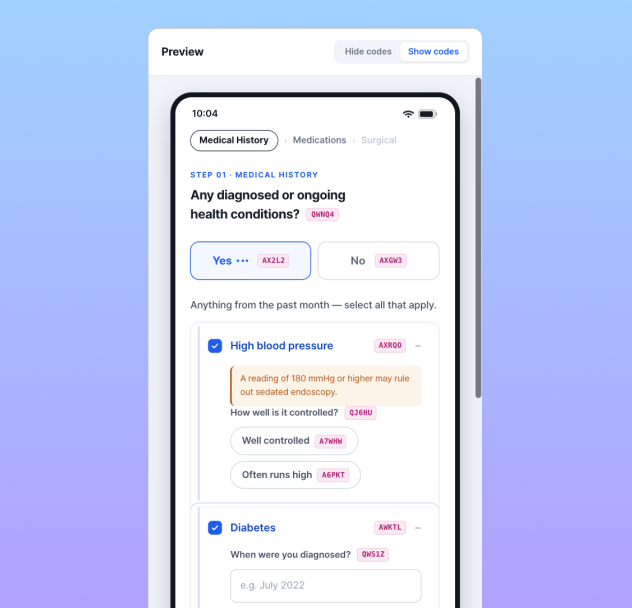
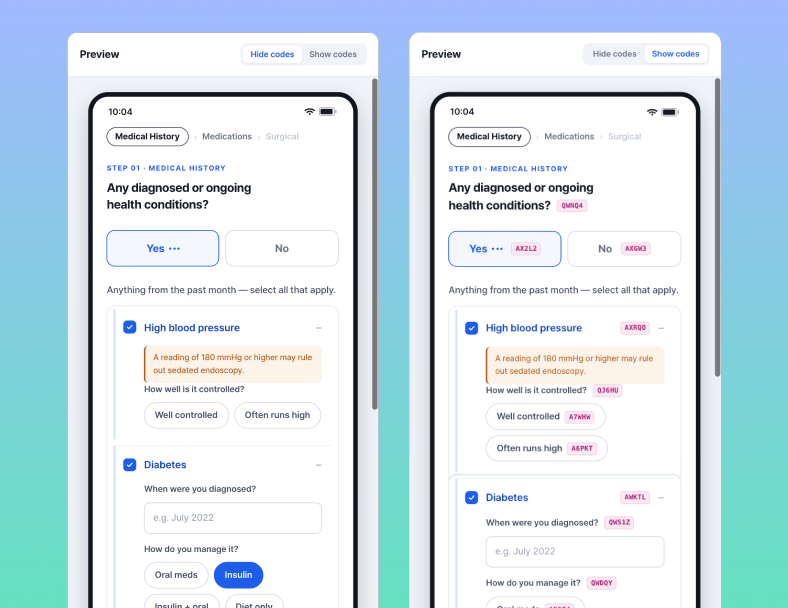
Fix social links and update questionnaire editor-03 panel
- Update Instagram/LinkedIn footer links on home and work pages
- Replace qa-editor-03 with Hide/Show codes comparison + new caption

diff --git a/index.html b/index.html
@@ -403,10 +403,10 @@
     <div class="footer__inner">
       <p class="footer__built">Built with HTML, CSS &amp; Claude Code</p>
       <div class="footer__social">
-        <a href="https://www.instagram.com/네아이디" target="_blank" rel="noopener" aria-label="Instagram">
+        <a href="https://www.instagram.com/shin_neon3.0/" target="_blank" rel="noopener" aria-label="Instagram">
           <svg width="20" height="20" viewBox="0 0 24 24" fill="none" stroke="currentColor" stroke-width="1.6"><rect x="3" y="3" width="18" height="18" rx="5"/><circle cx="12" cy="12" r="4"/><circle cx="17.5" cy="6.5" r="0.6" fill="currentColor"/></svg>
         </a>
-        <a href="https://www.linkedin.com/in/네아이디" target="_blank" rel="noopener" aria-label="LinkedIn">
+        <a href="https://www.linkedin.com/in/eunhyeshin" target="_blank" rel="noopener" aria-label="LinkedIn">
           <svg width="20" height="20" viewBox="0 0 24 24" fill="none" stroke="currentColor" stroke-width="1.6"><rect x="3" y="3" width="18" height="18" rx="2"/><line x1="8" y1="10" x2="8" y2="17"/><circle cx="8" cy="7" r="0.5" fill="currentColor"/><path d="M12 17v-4a2 2 0 0 1 4 0v4M12 10v7"/></svg>
         </a>
       </div>

diff --git a/work.html b/work.html
@@ -472,10 +472,10 @@
     <div class="footer__inner">
       <p class="footer__built">Built with HTML, CSS &amp; Claude Code</p>
       <div class="footer__social">
-        <a href="https://www.instagram.com/" target="_blank" rel="noopener" aria-label="Instagram">
+        <a href="https://www.instagram.com/shin_neon3.0/" target="_blank" rel="noopener" aria-label="Instagram">
           <svg width="20" height="20" viewBox="0 0 24 24" fill="none" stroke="currentColor" stroke-width="1.6"><rect x="3" y="3" width="18" height="18" rx="5"/><circle cx="12" cy="12" r="4"/><circle cx="17.5" cy="6.5" r="0.6" fill="currentColor"/></svg>
         </a>
-        <a href="https://www.linkedin.com/" target="_blank" rel="noopener" aria-label="LinkedIn">
+        <a href="https://www.linkedin.com/in/eunhyeshin" target="_blank" rel="noopener" aria-label="LinkedIn">
           <svg width="20" height="20" viewBox="0 0 24 24" fill="none" stroke="currentColor" stroke-width="1.6"><rect x="3" y="3" width="18" height="18" rx="2"/><line x1="8" y1="10" x2="8" y2="17"/><circle cx="8" cy="7" r="0.5" fill="currentColor"/><path d="M12 17v-4a2 2 0 0 1 4 0v4M12 10v7"/></svg>
         </a>
       </div>

diff --git a/work-questionnaire.html b/work-questionnaire.html
@@ -602,7 +602,7 @@
             </div>
             <div class="qa-scroll__item qa-scroll__item--narrow">
               <div class="ph"><img src="assets/images/questionnaire/qa-editor-03.png" alt="Editor state 03" /></div>
-              <p class="qa-scroll__cap"><strong>Panel 3</strong>The preview reflects every edit instantly, so the change is verified by the person who made it — in the same view.</p>
+              <p class="qa-scroll__cap"><strong>Panel 3</strong>Codes on (right): every question and answer reveals its own unique code, so operators can trace exactly which item maps where.</p>
             </div>
           </div>
         </div>